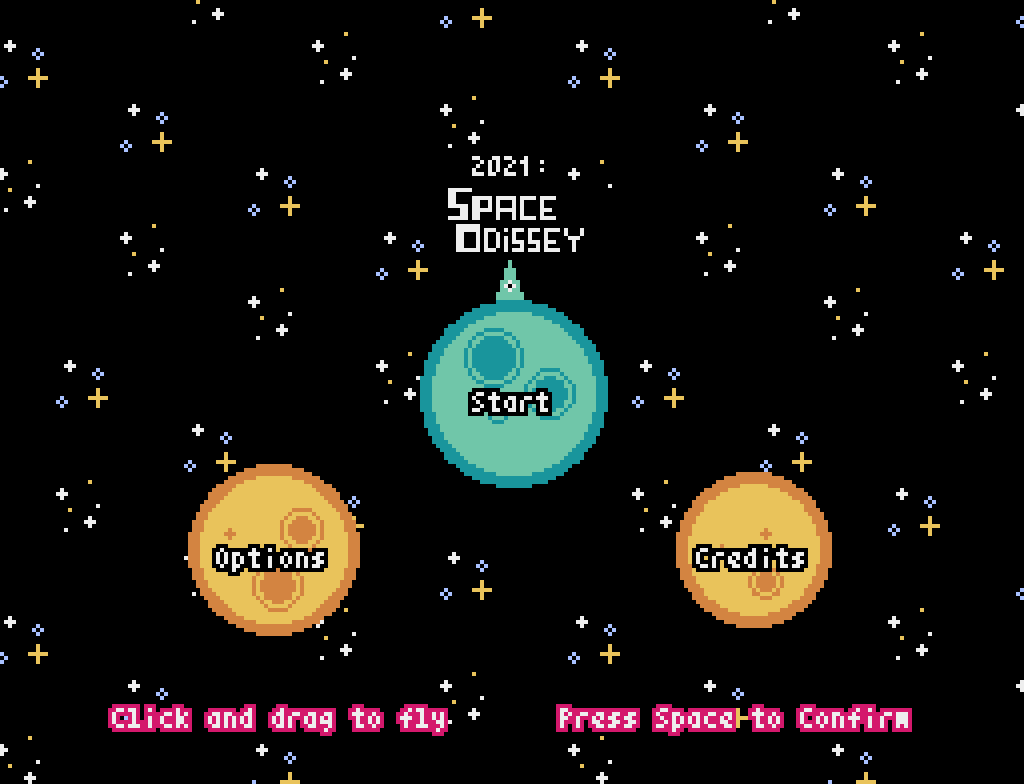
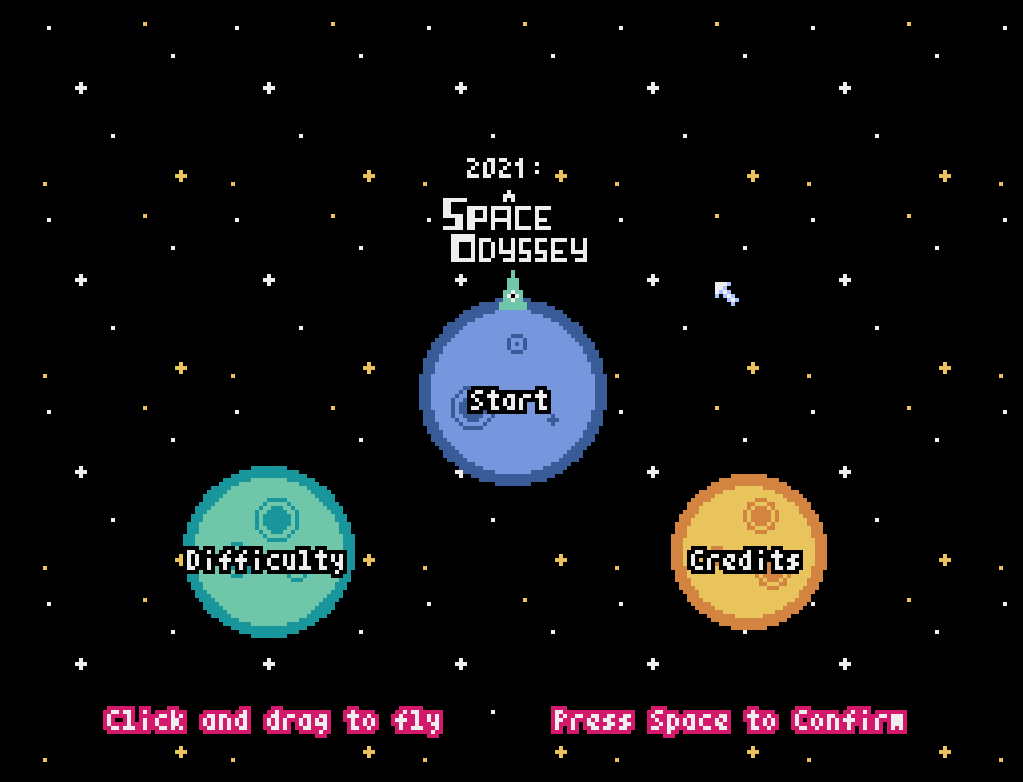
refactor and difficulty select

diff --git a/game/game.py b/game/game.py
@@ -19,14 +19,12 @@ class Game:
             elasticity = 1.0,
         )
         pyxel.load("assets.pyxres")
-        self.sprite_manager = 0
-        self.difficulty = 10
         self.transition = 0
         self.stage_height = -950
         self.state = utils.GameState.MENU
+        self.difficulty = 2
 
         # Inicializa objetos
-
         self.player = player.Player(utils.WIDTH/2, utils.HEIGHT/2-26)
         self.player.register(self.space)
 
@@ -62,9 +60,7 @@ class Game:
                 velocity= -random.uniform(50, 90) * self.player.player_body.rotation_vector.rotated(90),
             )
 
-
     def on_planet(self, arb: Arbiter):
-
         shape_a, shape_b = arb.bodies
         if shape_a.collision_type == utils.ColType.PLAYER:
             player, planet = shape_a, shape_b
@@ -90,6 +86,9 @@ class Game:
     def update(self):
         self.space.step(1 / 30, 2)
 
+        # print(self.state)
+        # print(self.camera.offset)
+
         self.player.update(self.camera)
         self.particles.update()  
 
@@ -98,7 +97,7 @@ class Game:
             self.planets[2].planet_body.position += (self.transition, 0) 
         
             for p in self.planets:
-                p.update(self.player.player_body)
+                p.update(self.player.player_body, self.difficulty)
 
             # Ajusta Camera
             if self.player.landed_on is not None:
@@ -130,7 +129,7 @@ class Game:
                 i = 0
                 dist = 0
 
-                while i < self.difficulty :
+                while i < self.difficulty*6 :
                     dist = (-100*i) - self.planets[-1].planet_body.radius
                     if i == 0:
                         temp = 0
@@ -169,6 +168,12 @@ class Game:
                 self.state = utils.GameState.MENU
 
         elif self.state == utils.GameState.OPTIONS :
+            if pyxel.btnp(pyxel.KEY_RIGHT):
+                if self.difficulty != 3: 
+                    self.difficulty += 1
+            if pyxel.btnp(pyxel.KEY_LEFT):
+                if self.difficulty != 1: 
+                    self.difficulty -= 1
             if pyxel.btnp(pyxel.KEY_SPACE):
                 self.state = utils.GameState.MENU
 
@@ -177,7 +182,6 @@ class Game:
 
             if pyxel.btnp(pyxel.KEY_SPACE):
                 while len(self.planets) > 3:
-                    # print(len(self.planets))
                     if(self.planets[-1].moon is not None):
                         self.space.remove(self.planets[-1].moon)
                     if(self.planets[-1].ufo is not None):
@@ -196,37 +200,22 @@ class Game:
     def draw(self):
         pyxel.cls(0)
 
-        # REFACTOR
+        # Desenha Plano de Fundo
+        xbg, ybg = 0, 0
+        xp, yp = self.camera.offset
+        while ybg < utils.HEIGHT+48:
+            while xbg < utils.WIDTH+48:
+                pyxel.blt(xbg - (xp%48), ybg - (yp%48), 0, 0, 0, 48, 48)
+                xbg += 48
 
-        xa = -500
-        ya = -1000
+            xbg = 0
+            ybg += 48
 
-        count = 0
-        count2 = 0
-
-        while xa < 500:
-            while ya < 500:
-                self.camera.blt(xa, ya, 0, count, count2, 16, 16)
-                ya += 16
-                count += 16
-
-                if count > 32:
-                    count = 0
-                    count2 += 16
-                    if count2 > 32:
-                        count2 = 0
-
-            ya = -1000
-            xa += 16
-
-        # END REFACTOR
-
+        for p in self.planets:
+            p.draw(self.camera)
         
-        
+        # Atualiza lógica de desenho dependendo do Game State
         if self.state is not utils.GameState.GAME_OVER:
-            for p in self.planets:
-                p.draw(self.camera)
-
             self.camera.draw(self.player.player_body)
             self.player.draw(self.camera)
 
@@ -242,29 +231,31 @@ class Game:
             self.camera.blt(utils.WIDTH/2-30, self.stage_height-8, 0, 48, 0, 16, 16)
             self.camera.blt(utils.WIDTH/2+32, self.stage_height-9, 0, 48, 0, 16, 16)
 
-
         if(self.state == utils.GameState.MENU or self.state == utils.GameState.TRANSITION):
             # draw title
             utils.centralized_text(self.camera, utils.WIDTH/2, utils.HEIGHT/2-58 - self.transition*2, "2021:", pyxel.COLOR_WHITE, 0)
-            self.camera.blt(utils.WIDTH/2-16, utils.HEIGHT/2-50 - self.transition*2, 0, 0, 56, 40, 16)
+            self.camera.blt(utils.WIDTH/2-16, utils.HEIGHT/2-50 - self.transition*2, 0, 0, 54, 40, 18)
 
             # draw UI
             if self.state == utils.GameState.MENU:
                 utils.centralized_text(self.camera, *self.planets[1].planet_body.position, "Start", pyxel.COLOR_WHITE, 2)
 
-            utils.centralized_text(self.camera, self.planets[0].planet_body.position.x - self.transition, self.planets[0].planet_body.position.y, "Options", pyxel.COLOR_GRAY, 2)
+            utils.centralized_text(self.camera, self.planets[0].planet_body.position.x - self.transition, self.planets[0].planet_body.position.y, "Difficulty", pyxel.COLOR_WHITE, 2)
             utils.centralized_text(self.camera, self.planets[2].planet_body.position.x + self.transition, self.planets[2].planet_body.position.y, "Credits", pyxel.COLOR_WHITE, 2)
             utils.centralized_text(self.camera, utils.WIDTH/2, utils.HEIGHT/2+80 + self.transition*2, "Click and drag to fly       Press Space to Confirm", pyxel.COLOR_WHITE, 2, pyxel.COLOR_RED)
             
         elif self.state == utils.GameState.CREDITS:
             pyxel.cls(0)
             pyxel.text(20, utils.HEIGHT/2-10, "Everything done by: Hugo Bezerra :D", pyxel.frame_count % 15+1)
-            pyxel.text(20, utils.HEIGHT/2+10, "Press Space to return", pyxel.COLOR_WHITE)
+            pyxel.text(20, utils.HEIGHT-20, "Press Space to return", pyxel.COLOR_WHITE)
 
         elif self.state == utils.GameState.OPTIONS:
             pyxel.cls(0)
-            pyxel.text(20, utils.HEIGHT/2-10, "Options will go here xD", pyxel.COLOR_WHITE)
-            pyxel.text(20, utils.HEIGHT/2+10, "Press Space to return", pyxel.COLOR_WHITE)
+            strp = "Difficulty: <" + str(self.difficulty) + ">"
+
+            pyxel.text(20, utils.HEIGHT/2-10, strp, pyxel.COLOR_RED)
+            pyxel.text(20, utils.HEIGHT-30, "Press Arrow keys to select Difficulty", pyxel.COLOR_WHITE)
+            pyxel.text(20, utils.HEIGHT-20, "Press Space to return", pyxel.COLOR_WHITE)
 
         elif self.state == utils.GameState.GAME_OVER:
             utils.centralized_text(self.camera, utils.WIDTH/2, utils.HEIGHT/2, "Press Space to try again", pyxel.COLOR_WHITE, 4, pyxel.COLOR_RED)    

diff --git a/game/planet.py b/game/planet.py
@@ -14,18 +14,15 @@ import random
 # 10 9
 # 11 3
 
-# Gravitational constants
+# variáveis gravitacionais
 S_mass = 100
 G = 1e2
-a = 16 # "a" is here to make things smoother 
+a = 16 
 alpha = 1
 
 class Planet(utils.GameObject):
-
     def __init__(self, x, y, r, flag):
-
         choose_color = random.randint(0, 3)
-
         if choose_color == 0:
             col1 = 6
             col2 = 12
@@ -56,7 +53,6 @@ class Planet(utils.GameObject):
                 self.moon = phys.circ(self.planet_body.position.x + 2*self.planet_body.radius, self.planet_body.position.y + 2*self.planet_body.radius, random.randint(2, 4), col1+1)
                 self.moon.elasticity=1.0
                 self.moon.collision_type = utils.ColType.ENEMY
-                # self.moon.mass = ...
         
                 dist = self.moon.position - self.planet_body.position
                 r = dist.length
@@ -81,10 +77,8 @@ class Planet(utils.GameObject):
         self.crater_r3 = random.uniform(1, self.planet_body.radius/2-2)
         self.crater_pos3 = random.uniform(2+self.crater_r3, self.planet_body.radius-self.crater_r3-2)
 
-
-
-    def update(self, player):
-        self.planet_body.angular_velocity = 1500/self.planet_body.radius
+    def update(self, player, difficulty):
+        self.planet_body.angular_velocity = (difficulty*800)/self.planet_body.radius
 
         if self.moon is not None:
             dist = self.moon.position - self.planet_body.position
@@ -93,15 +87,12 @@ class Planet(utils.GameObject):
             F = G * S_mass * self.moon.mass / (r + a)**alpha
 
             self.moon.force += -F * direction
-            # print("moon mass = ", self.moon.mass)
 
         if self.ufo is not None:
             x1, y1 = player.position
             x2, y2 = self.ufo.ufo_body.position
 
             dist = sqrt( (x2 - x1)**2 + (y2 - y1)**2 )
-
-            # print("ufo/player dist", dist)
 
             if dist < 70:
                 self.ufo.hatch_col = 8
@@ -119,19 +110,12 @@ class Planet(utils.GameObject):
                 r = dist.length
                 F = G * S_mass * self.ufo.ufo_body.mass / (r + a)**alpha
 
-                # print("ufo applied force", F)
-
                 self.ufo.ufo_body.force += -F * direction
 
                 p_angle = Vec2d(*(self.ufo.ufo_body.position - self.planet_body.position))
                 self.ufo.ufo_body.angle = p_angle.rotated(90).angle
-                # print("ufo mass = ", self.ufo.ufo_body.mass)
     
     def draw(self, camera): 
-
-        if self.ufo is not None:
-            self.ufo.draw(camera)
-
         camera.circ(*self.planet_body.position, self.planet_body.radius+3, self.crater_col)      
         camera.circ(*self.planet_body.position, self.planet_body.radius, self.planet_body.color)      
 
@@ -150,6 +134,9 @@ class Planet(utils.GameObject):
         camera.circb(crater_x, crater_y, self.crater_r3, self.crater_col)
         camera.circ(crater_x, crater_y, self.crater_r3-2, self.crater_col)
 
+        if self.ufo is not None:
+            self.ufo.draw(camera)
+
         if self.moon is not None:
             camera.circ(*self.moon.position, self.moon.radius, self.moon.color)
 
@@ -157,8 +144,6 @@ class Planet(utils.GameObject):
                 self.trajectory.append(self.moon.position)
             for (x, y) in self.trajectory:
                 camera.pset(x, y, self.moon.color)
-
-        
 
     def register(self, space):
         space.add(self.planet_body)

diff --git a/game/utils.py b/game/utils.py
@@ -7,8 +7,20 @@ from easymunk import Vec2d, Arbiter, CircleBody, Space, ShapeFilter
 from easymunk import pyxel as phys
 
 WIDTH, HEIGHT = 256, 196
-
 DEATH_COLORS = [11, 3, 5]
+
+class GameObject(ABC):
+    @abstractmethod
+    def update(self):
+        ...
+    
+    @abstractmethod
+    def draw(self):
+        ...
+
+    @abstractmethod
+    def register(self, space: Space, message: Callable[[str, "GameObject"], None]):
+        ...
 
 class Particles:
     def __init__(self, space):
@@ -53,11 +65,12 @@ class Particles:
 
 # check out of bounds
 def check_oob(player, xl, xr, yd, yu):
-    if player.player_body.position.x < xl or player.player_body.position.x > WIDTH + xr or player.player_body.position.y > HEIGHT + yu or player.player_body.position.y < yd:
+    if player.player_body.position.x < xl or player.player_body.position.x > WIDTH + xr or player.player_body.position.y < yu or player.player_body.position.y > HEIGHT + yd :
         return True
     else:
         return False
 
+# draw centralized text
 def centralized_text(camera, x, y, text, col, flag, col2=0):
     n = len(text)
     x_fix = (x - (n * pyxel.FONT_WIDTH) / 2)
@@ -106,16 +119,3 @@ class GameState(enum.IntEnum):
     CREDITS = 6
     TRANSITION = 7
     PAUSED = 8
-
-class GameObject(ABC):
-    @abstractmethod
-    def update(self):
-        ...
-    
-    @abstractmethod
-    def draw(self):
-        ...
-
-    @abstractmethod
-    def register(self, space: Space, message: Callable[[str, "GameObject"], None]):
-        ...

diff --git a/game/enemies.py b/game/enemies.py
@@ -8,22 +8,16 @@ from easymunk import Constraint, Arbiter
 import pyxel
 
 class Ufo(utils.GameObject):
-
     def __init__(self, x, y):
         self.ufo_body = phys.poly([(0, 0), (0, 3), (-7, 0), (-4, 4), (4, 4), (7, 0)], color=pyxel.COLOR_GRAY)
-        # self.beam = 
         self.ufo_body.position=(x, y)
         self.ufo_body.elasticity=1.0
         self.ufo_body.collision_type = utils.ColType.ENEMY
         self.hatch_col = 10
         self.over = None
-        # self.planet_body.mass = ...
         
     def update(self):
         ...
-
-
-        
     
     def draw(self, camera):
         r = self.ufo_body.rotation_vector.rotated(-90) * 3
@@ -31,7 +25,6 @@ class Ufo(utils.GameObject):
 
         camera.draw(self.ufo_body)
         camera.circ(x2, y2, 2, self.hatch_col)
-        # camera.line(*self.ufo_body.position, *self.over.position, 8)
 
     def register(self, space):
         space.add(self.ufo_body)

diff --git a/game/player.py b/game/player.py
@@ -8,7 +8,6 @@ import pyxel
 import random
 
 class Player(utils.GameObject):
-
     def __init__(self, x, y):
         self.slingshot = Vec2d(0, 0)
         self.landed_on = None
@@ -17,7 +16,6 @@ class Player(utils.GameObject):
         self.player_body.position = (x, y)
         self.player_body.elasticity = 1.0
         self.player_body.collision_type = utils.ColType.PLAYER
-
         self.blinking = 0
         
     def update(self, camera):
@@ -53,10 +51,8 @@ class Player(utils.GameObject):
             # arrow3 = arrow.rotated(90)
             # camera.line(*(arrow * 30 + self.player_body.position), *(arrow3 * 28) + self.player_body.position, pyxel.COLOR_LIME)
 
-
         if random.randint(0, 100) == pyxel.frame_count % 101 and self.blinking == 0:
             self.blinking = 15
-
 
         if self.blinking > 0:
             camera.circ(*self.player_body.position, 1, 3)
